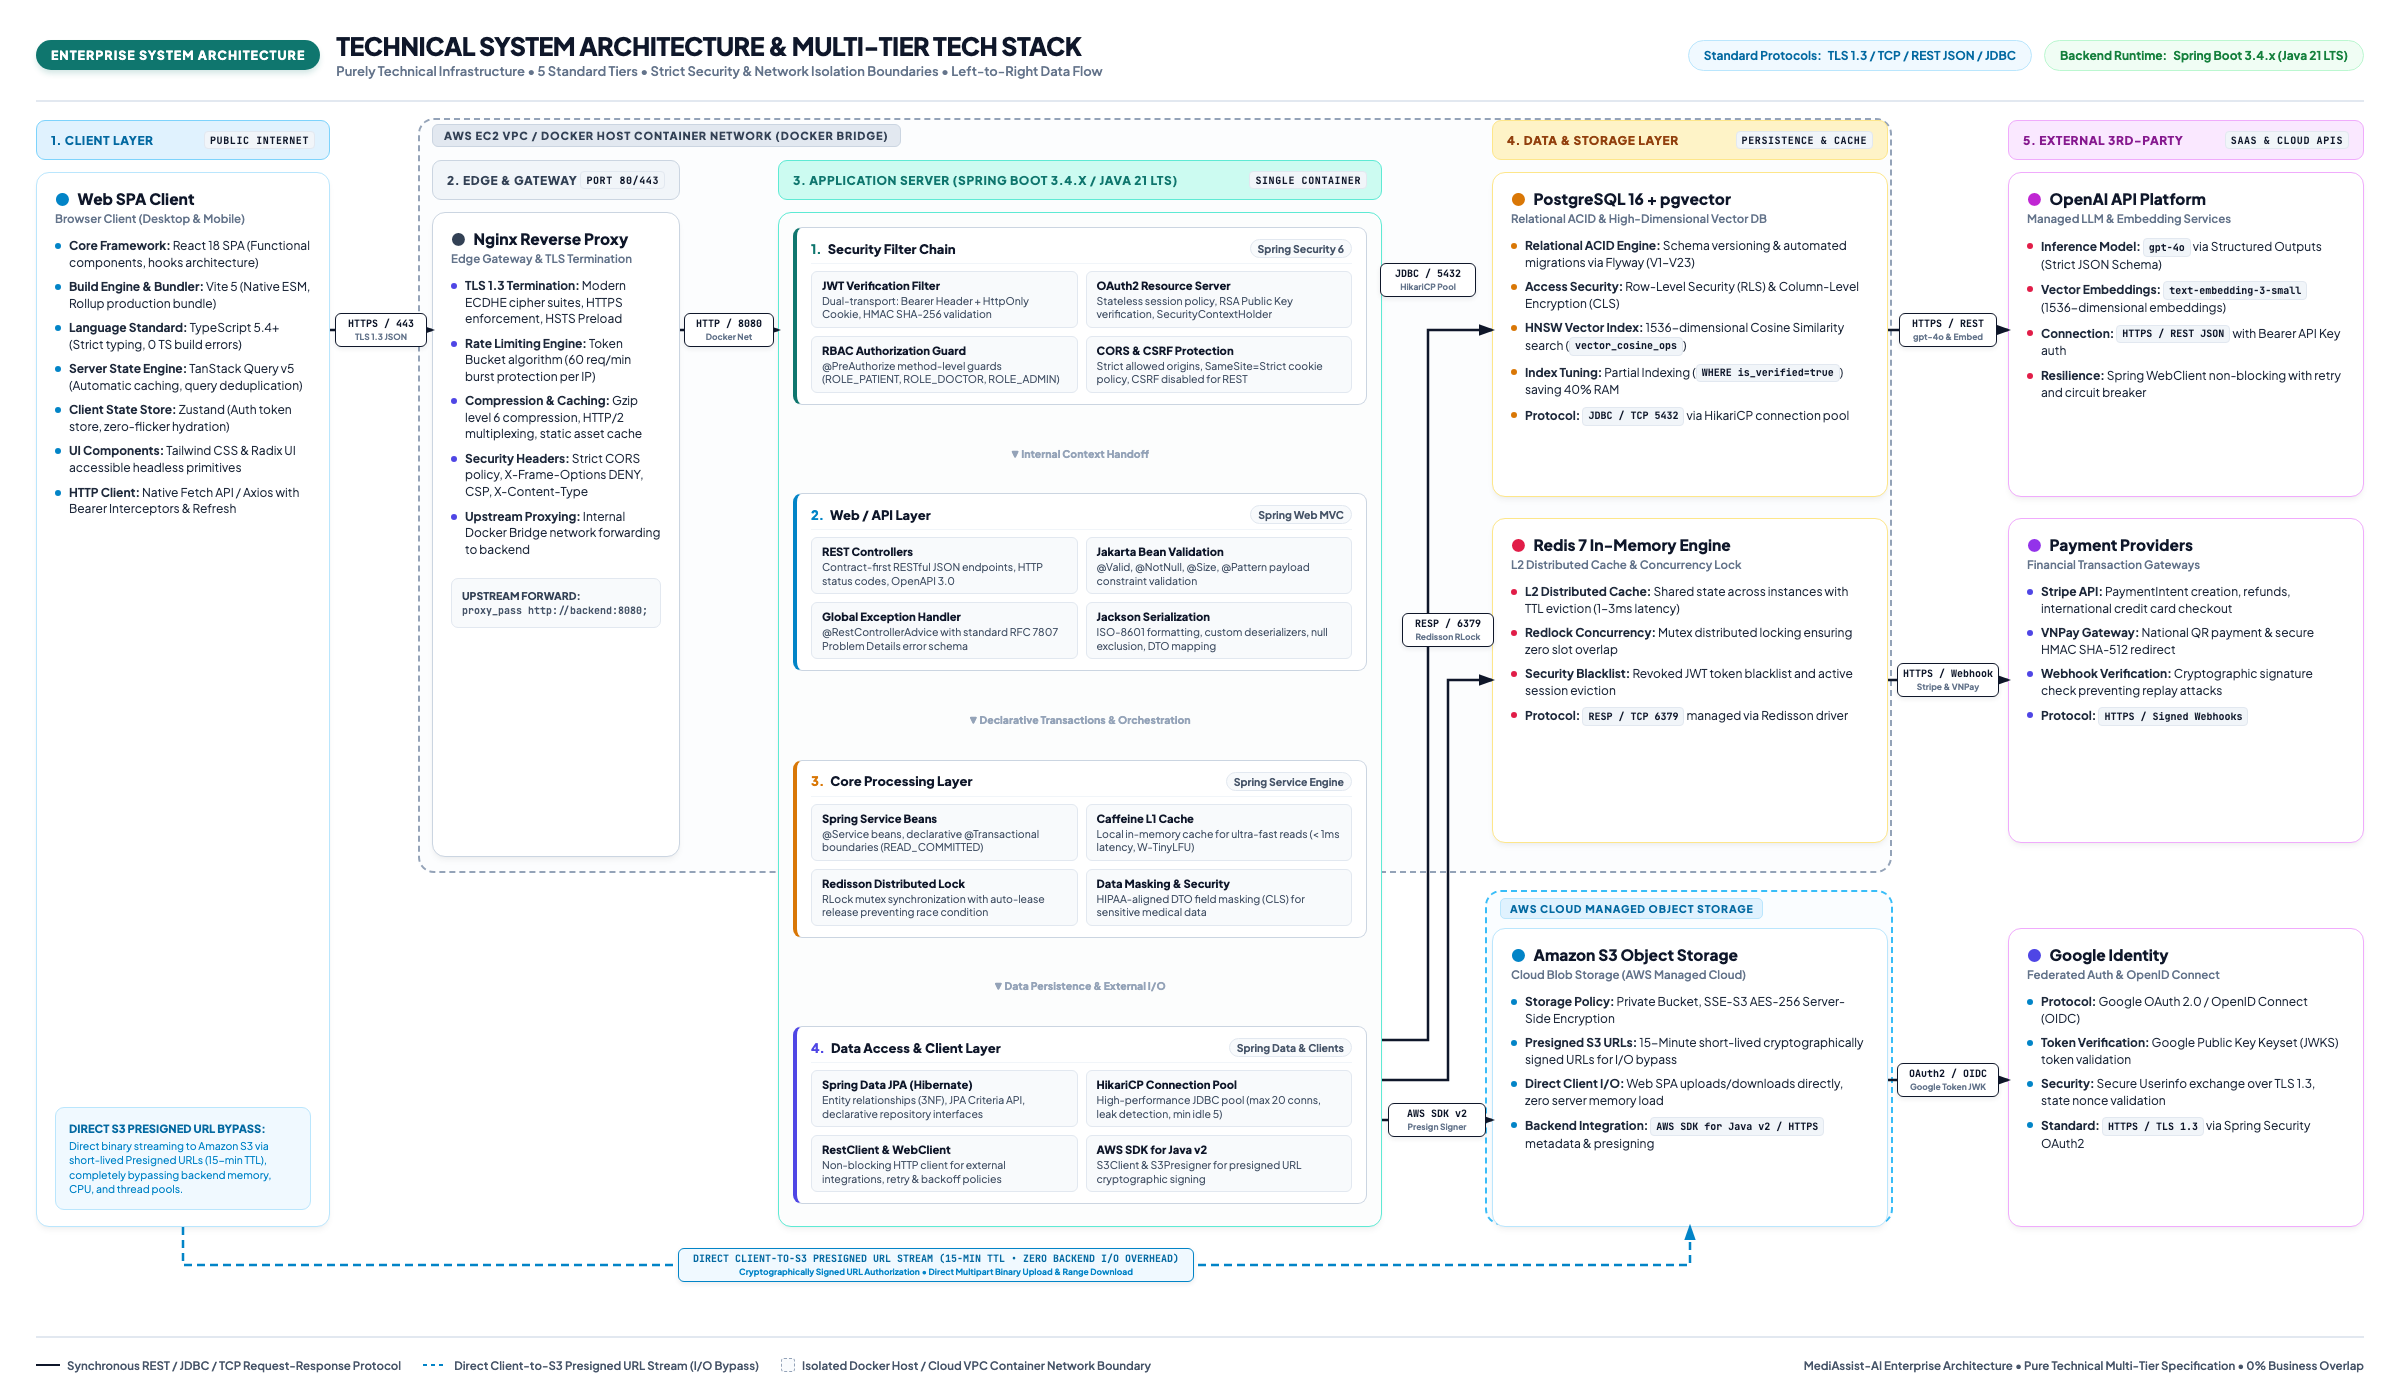
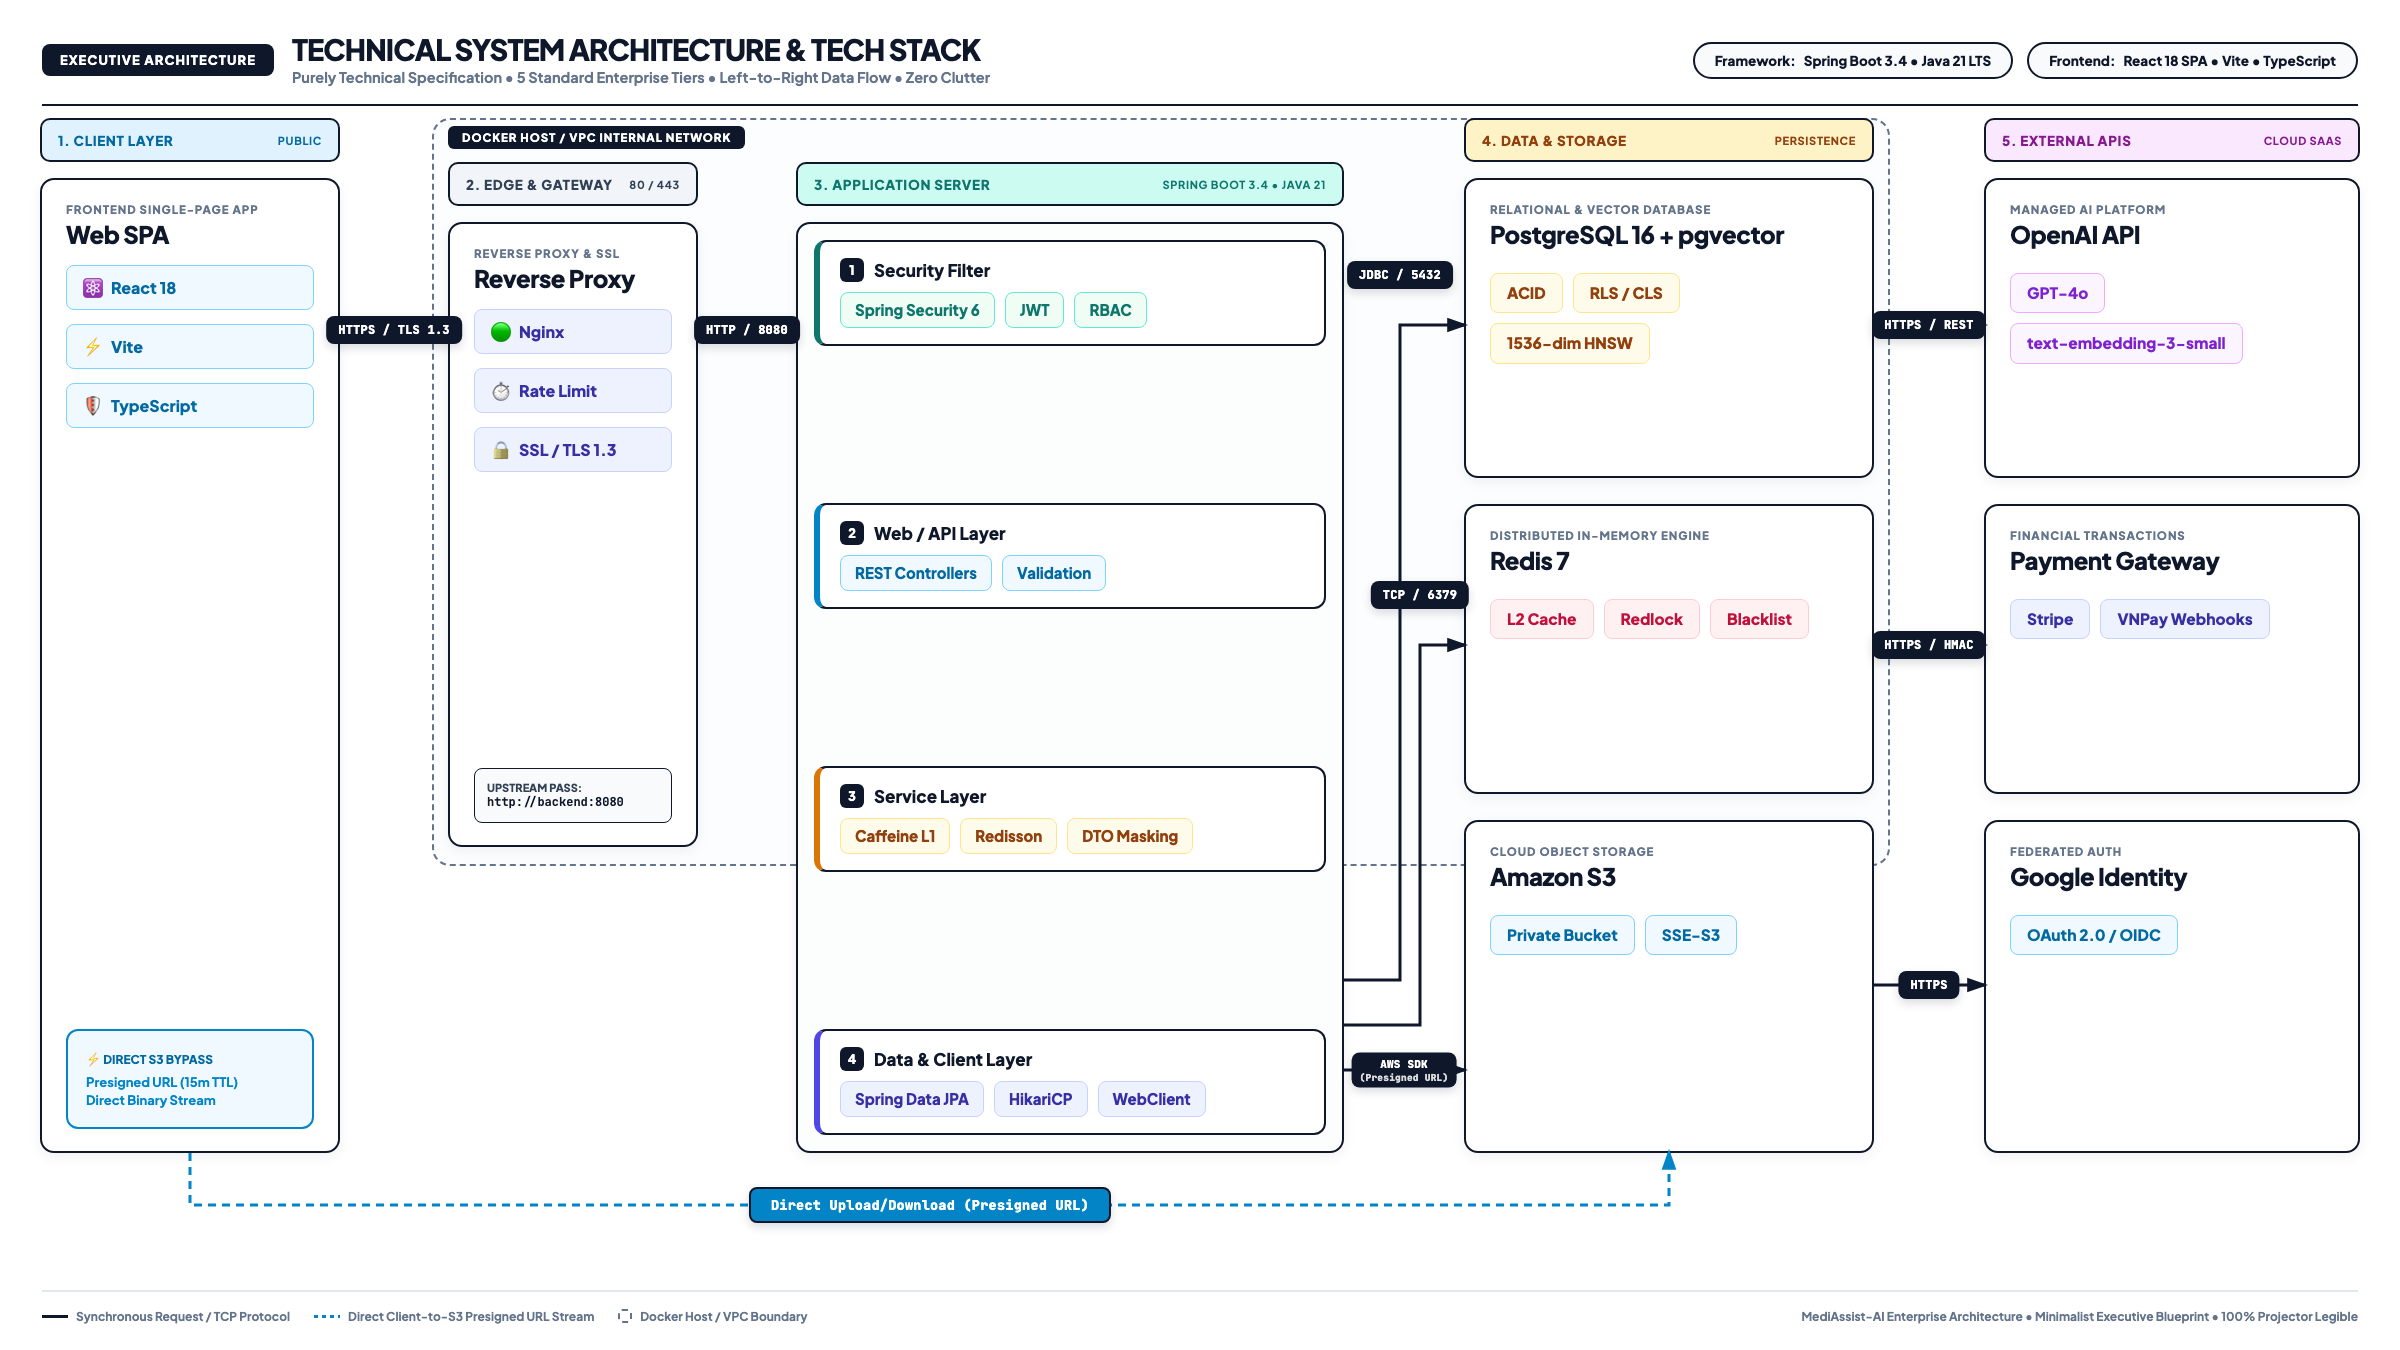
docs(arch): redraw technical architecture to minimalist executive edition for projector legibility

diff --git a/docs/WORK_LOG.md b/docs/WORK_LOG.md
@@ -7,6 +7,41 @@
 
 ---
 
+## [2026-11-24 23:45:00] - TÁI THIẾT KẾ BẢN VẼ KIẾN TRÚC PHIÊN BẢN EXECUTIVE MINIMALIST: RÕ RÀNG, CHỮ TO RÕ, 100% ĐỌC ĐƯỢC TRÊN MÁY CHIẾU
+
+### 1. Thời Gian & Tiêu Đề
+- **Thời gian:** 2026-11-24 23:45:00
+- **Tiêu đề:** Tái thiết kế toàn bộ sơ đồ 5 tầng Kiến Trúc Kỹ Thuật (Technical System Architecture) sang phong cách Executive Minimalist tối giản: loại bỏ 100% câu văn dài, đoạn văn và gạch đầu dòng nhỏ; áp dụng kiểu chữ to đậm sắc nét (Bold Crisp Typography), các khối thẻ thẻ tag từ khóa ngắn gọn, khoảng trắng rộng thoáng và đường nối trực giao không chạm lấn; cập nhật và commit trực tiếp lên Canva Slide 7 (`DAHa9bmQoV0`).
+
+### 2. Danh Sách Tệp Tin & Thay Đổi Chi Tiết
+- `[MOD]` `docs/images/system_architecture_technical.png` & `docs/images/system_architecture.png`:
+  - Thiết kế mới kích thước 2400x1350 px (16:9, tối ưu màn hình chiếu và slide Canva), 257 KB.
+  - **Tầng 1 (Client Layer):** Card `Web SPA` (`React 18`, `Vite`, `TypeScript`). Mũi tên: `HTTPS / TLS 1.3`. Đường bypass đứt nét xanh dương: `Direct Upload/Download (Presigned URL)`.
+  - **Tầng 2 (Edge & Gateway - Trong Docker Host / VPC):** Card `Reverse Proxy` (`Nginx`, `Rate Limit`, `SSL / TLS 1.3`). Mũi tên: `HTTP / 8080`.
+  - **Tầng 3 (Application Server - Spring Boot 3.4 • Java 21):** 4 khối ngang xếp chồng thanh thoát với nhãn tag từ khóa:
+    * 1. *Security Filter* (`Spring Security 6`, `JWT`, `RBAC`)
+    * 2. *Web / API Layer* (`REST Controllers`, `Validation`)
+    * 3. *Service Layer* (`Caffeine L1`, `Redisson`, `DTO Masking`)
+    * 4. *Data & Client Layer* (`Spring Data JPA`, `HikariCP`, `WebClient`)
+  - **Tầng 4 (Data & Storage):**
+    * *PostgreSQL 16 + pgvector* (`ACID`, `RLS / CLS`, `1536-dim HNSW`) — Mũi tên: `JDBC / 5432`.
+    * *Redis 7* (`L2 Cache`, `Redlock`, `Blacklist`) — Mũi tên: `TCP / 6379`.
+    * *Amazon S3* (`Private Bucket`, `SSE-S3`) — Mũi tên từ App: `AWS SDK (Presigned URL)`.
+  - **Tầng 5 (External APIs - Ngoài Server):**
+    * *OpenAI API* (`GPT-4o`, `text-embedding-3-small`) — Mũi tên: `HTTPS / REST`.
+    * *Payment Gateway* (`Stripe`, `VNPay Webhooks`) — Mũi tên: `HTTPS / HMAC`.
+    * *Google Identity* (`OAuth 2.0 / OIDC`) — Mũi tên: `HTTPS`.
+- `[CANVA COMMIT]` Canva Presentation (`DAHa9bmQoV0`):
+  - Slide 7 (Page 7): Cập nhật hình ảnh phiên bản Executive Minimalist (Asset: `MAHb2KYCTJE`).
+  - Giao dịch Canva Transaction `1259279295251494826` đã được **COMMITTED** thành công.
+
+### 3. Bằng Chứng Kiểm Thử & Trạng Thái
+- Kiểm tra render hình ảnh: Tất cả các chữ, nhãn giao thức đều to rõ, sắc nét, không có hiện tượng chèn lấn văn bản, sẵn sàng trình chiếu trước Hội đồng bảo vệ.
+- Trạng thái Canva: Đã commit thành công với trạng thái `status: committed`.
+- Trạng thái Git: Nhánh `develop` sẵn sàng commit và push.
+
+---
+
 ## [2026-11-24 23:30:00] - THIẾT KẾ BẢN VẼ KIẾN TRÚC HỆ THỐNG THUẦN KỸ THUẬT (PURE TECHNICAL SYSTEM ARCHITECTURE & TECH STACK)
 
 ### 1. Thời Gian & Tiêu Đề
